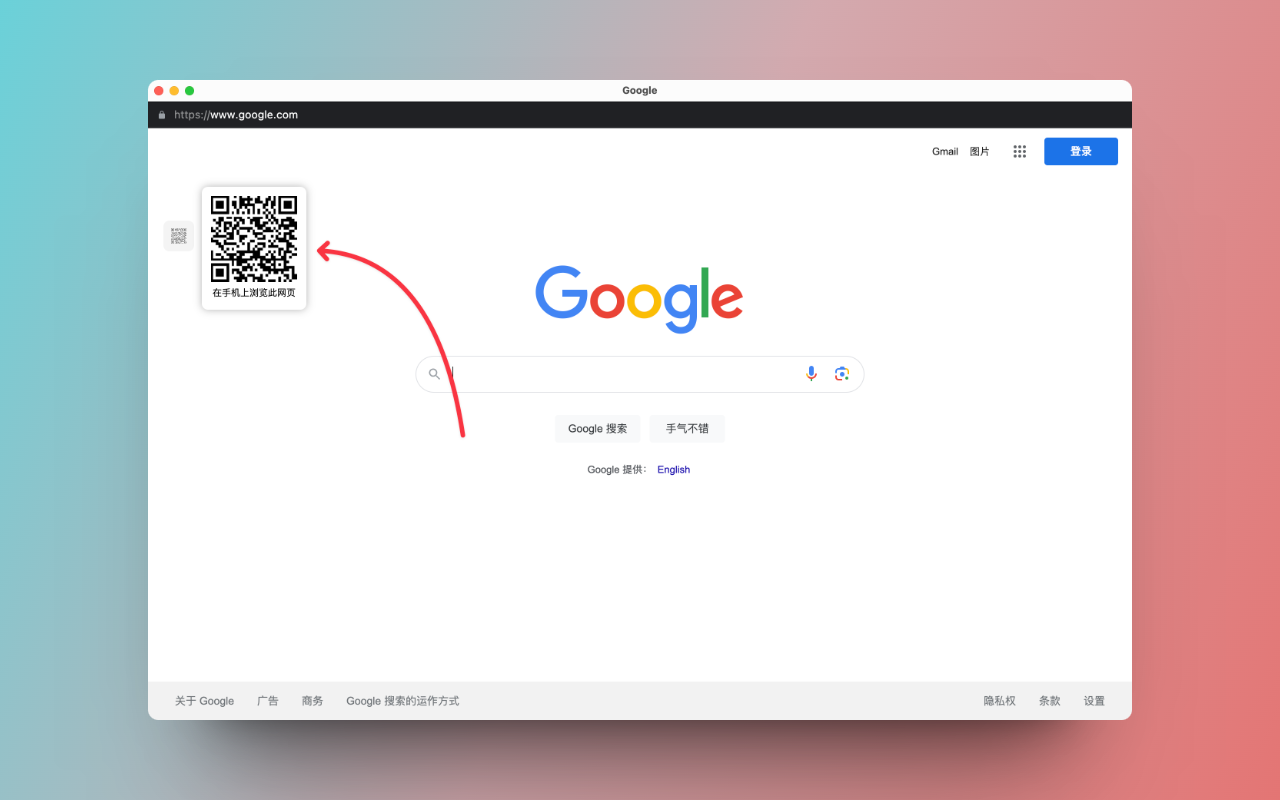
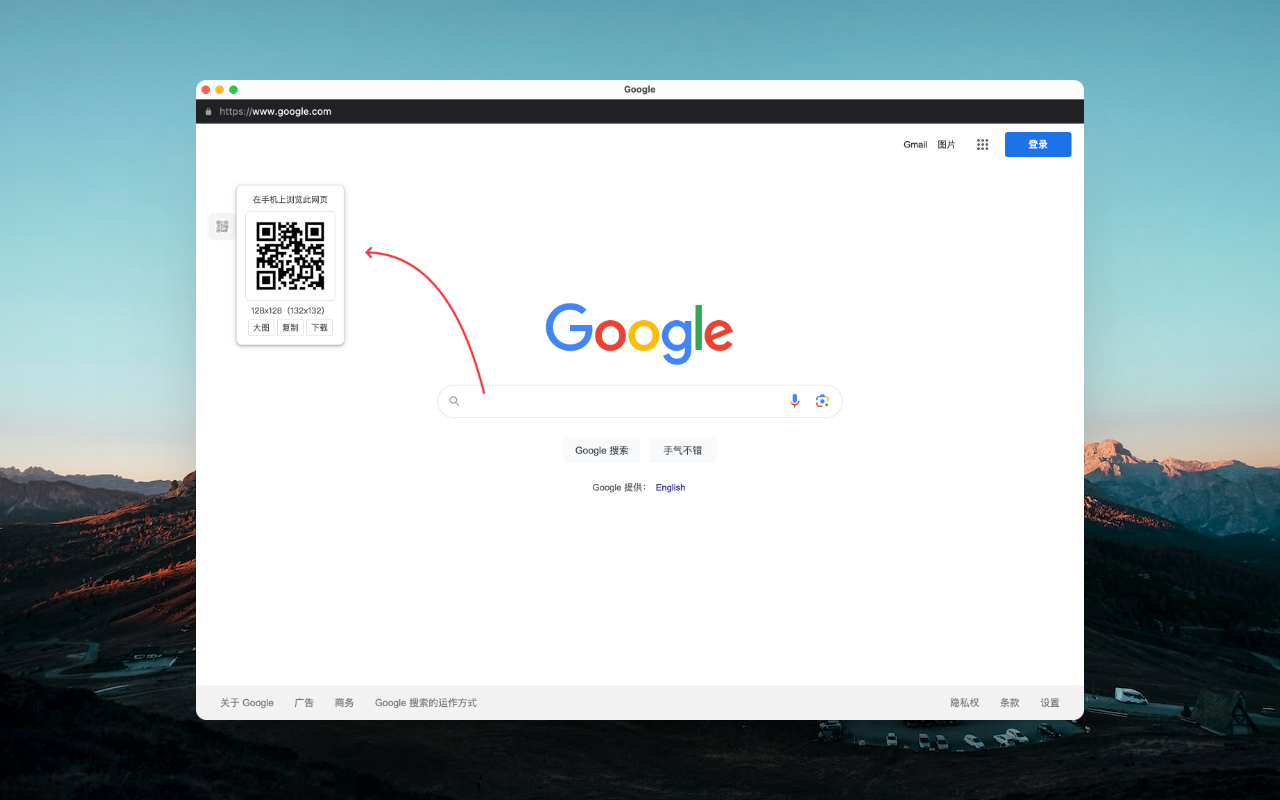
docs: 更新README.md

diff --git a/README.md b/README.md
@@ -3,7 +3,6 @@
 ![Chrome Web Store](https://img.shields.io/chrome-web-store/rating/bffmbfheegbbogkmjdhhmcaaljgaapol)
 ![Chrome Web Store Users](https://img.shields.io/chrome-web-store/users/bffmbfheegbbogkmjdhhmcaaljgaapol)
 
-
 ![说明](preview.png)
 
 ## 介绍
@@ -14,7 +13,10 @@
 
 - [x] 启动/停止
 - [x] 自定义二维码在页面的位置
-- [x] 点击复制二维码
+- [x] 支持查看大图
+- [x] 支持复制二维码
+- [x] 支持下载二维码
+- [x] 支持暗黑模式
 - [ ] 二维码显示网站 favicon 图标
 
 ## 预览
@@ -25,4 +27,14 @@
 
 ![预览图：触发效果 右上](preview3.png)
 
-![预览图：拓展配置](preview4.png)
+![预览图：触发效果 左上 英文](preview4.png)
+
+![预览图：拓展配置 中文](preview5.png)
+
+![预览图：拓展配置 英文](preview6.png)
+
+![预览图：暗黑模式](preview7.png)
+
+## 感谢
+
+- [QR Code generator library](https://www.nayuki.io/page/qr-code-generator-library)
